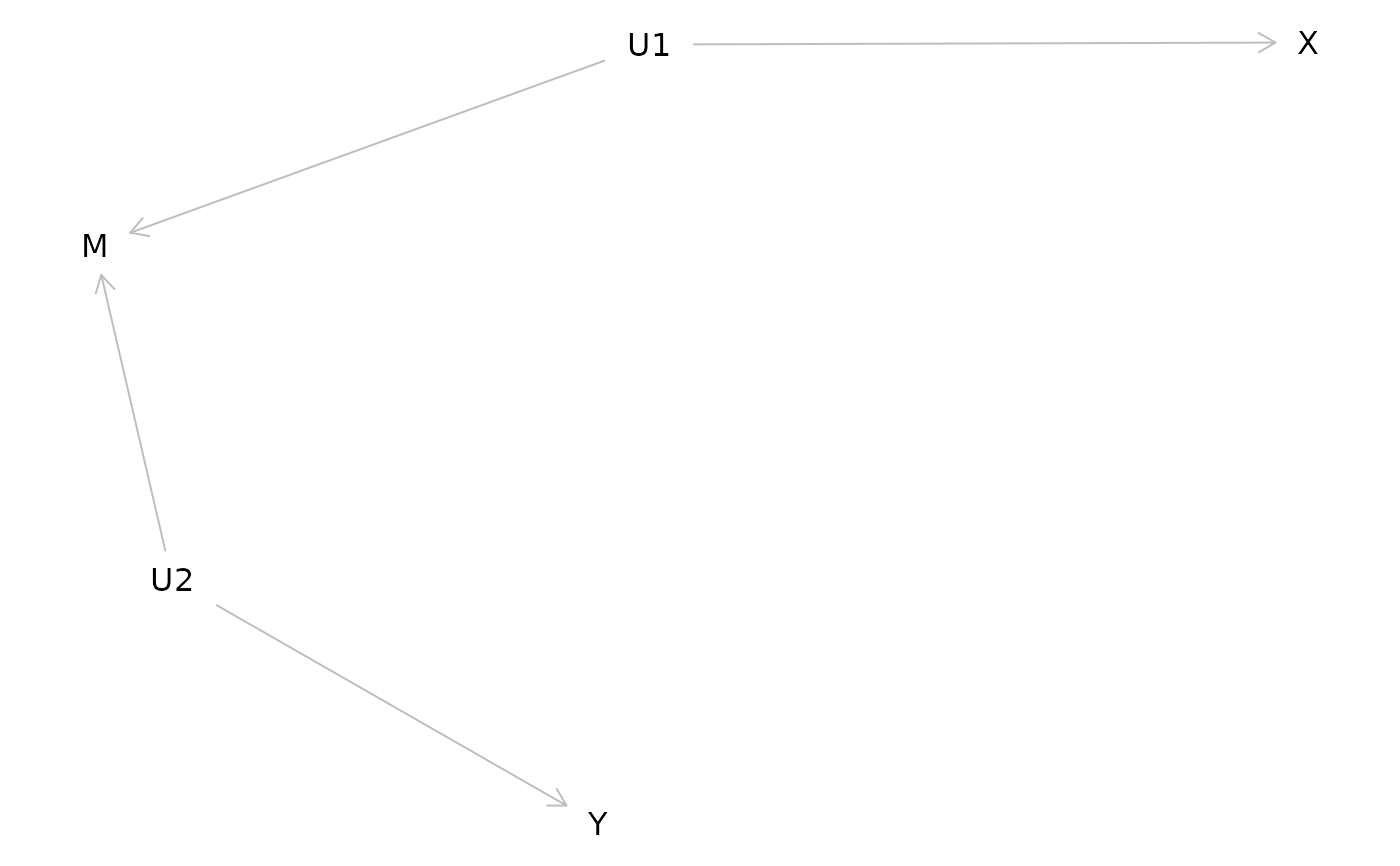
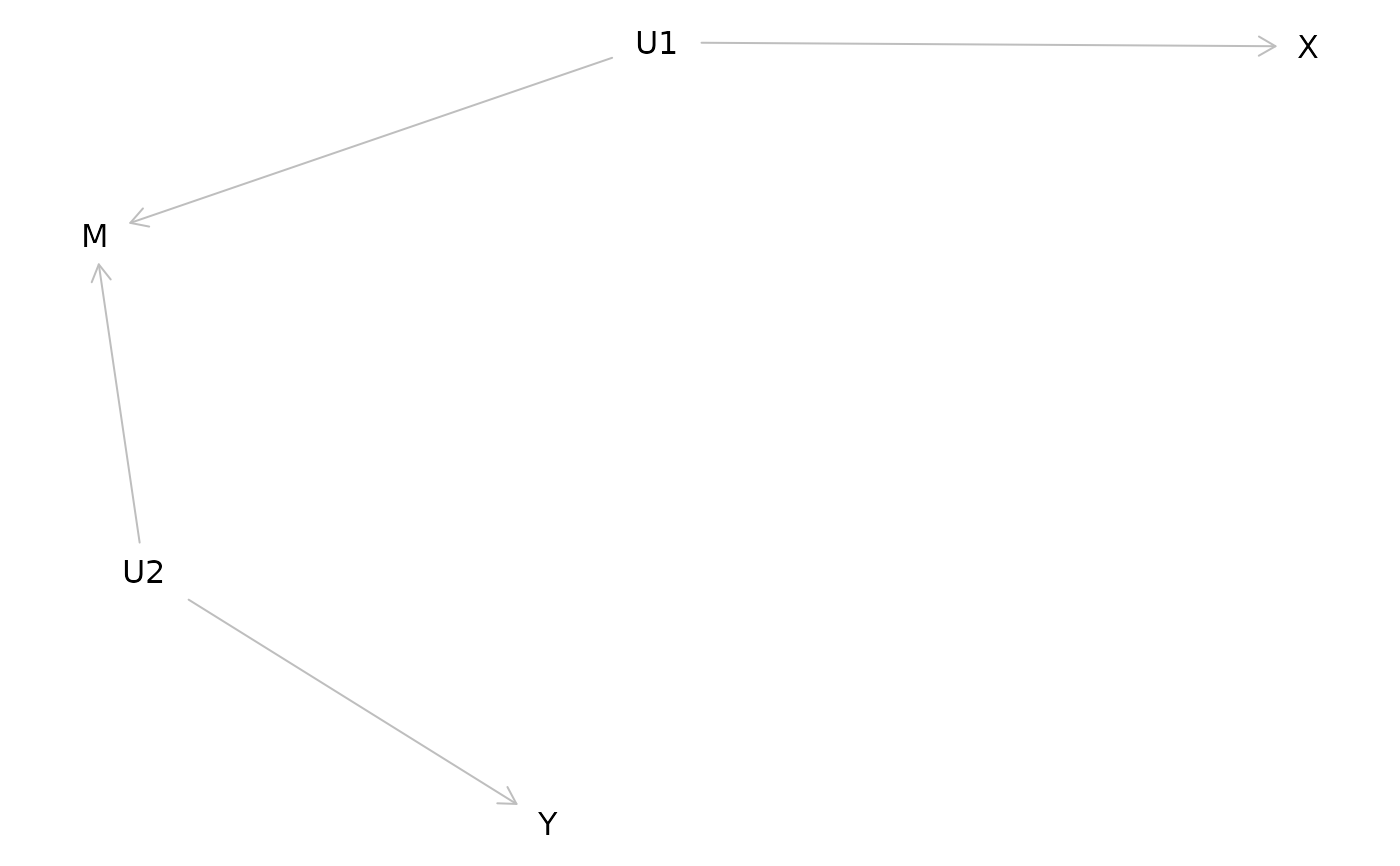
Deploying to gh-pages from @ choxos/dagittyplus@67bf7f78e037b0bebce6f2d291e1263ddfac24f1 🚀

diff --git a/BUILDING.html b/BUILDING.html
@@ -1,0 +1,134 @@
+<!DOCTYPE html>
+<!-- Generated by pkgdown: do not edit by hand --><html lang="en-US"><head><meta http-equiv="Content-Type" content="text/html; charset=UTF-8"><meta charset="utf-8"><meta http-equiv="X-UA-Compatible" content="IE=edge"><meta name="viewport" content="width=device-width, initial-scale=1, shrink-to-fit=no"><title>Building and architecture • dagittyplus</title><script src="deps/jquery-3.6.0/jquery-3.6.0.min.js"></script><meta name="viewport" content="width=device-width, initial-scale=1, shrink-to-fit=no"><link href="deps/bootstrap-5.3.8/bootstrap.min.css" rel="stylesheet"><script src="deps/bootstrap-5.3.8/bootstrap.bundle.min.js"></script><link href="deps/font-awesome-6.5.2/css/all.min.css" rel="stylesheet"><link href="deps/font-awesome-6.5.2/css/v4-shims.min.css" rel="stylesheet"><script src="deps/headroom-0.11.0/headroom.min.js"></script><script src="deps/headroom-0.11.0/jQuery.headroom.min.js"></script><script src="deps/bootstrap-toc-1.0.1/bootstrap-toc.min.js"></script><script src="deps/clipboard.js-2.0.11/clipboard.min.js"></script><script src="deps/search-1.0.0/autocomplete.jquery.min.js"></script><script src="deps/search-1.0.0/fuse.min.js"></script><script src="deps/search-1.0.0/mark.min.js"></script><!-- pkgdown --><script src="pkgdown.js"></script><meta property="og:title" content="Building and architecture"></head><body>
+    <a href="#main" class="visually-hidden-focusable">Skip to contents</a>
+
+
+    <nav class="navbar navbar-expand-lg fixed-top bg-light" data-bs-theme="light" aria-label="Site navigation"><div class="container">
+
+    <a class="navbar-brand me-2" href="index.html">dagittyplus</a>
+
+    <small class="nav-text text-muted me-auto" data-bs-toggle="tooltip" data-bs-placement="bottom" title="">0.4.0</small>
+
+
+    <button class="navbar-toggler" type="button" data-bs-toggle="collapse" data-bs-target="#navbar" aria-controls="navbar" aria-expanded="false" aria-label="Toggle navigation">
+      <span class="navbar-toggler-icon"></span>
+    </button>
+
+    <div id="navbar" class="collapse navbar-collapse ms-3">
+      <ul class="navbar-nav me-auto"><li class="nav-item"><a class="nav-link" href="reference/index.html">Reference</a></li>
+<li class="nav-item dropdown">
+  <button class="nav-link dropdown-toggle" type="button" id="dropdown-articles" data-bs-toggle="dropdown" aria-expanded="false" aria-haspopup="true">Articles</button>
+  <ul class="dropdown-menu" aria-labelledby="dropdown-articles"><li><a class="dropdown-item" href="articles/dagitty4semusers.html">A SEM user's guide to dagitty for R</a></li>
+  </ul></li>
+<li class="nav-item"><a class="nav-link" href="news/index.html">Changelog</a></li>
+      </ul><ul class="navbar-nav"><li class="nav-item"><a class="nav-link" href="https://choxos.github.io/dagittyplus/app/">Web app</a></li>
+<li class="nav-item"><a class="external-link nav-link" href="https://github.com/choxos/dagittyplus/" aria-label="GitHub"><span class="fa fab fa-github fa-lg"></span></a></li>
+      </ul></div>
+
+
+  </div>
+</nav><div class="container template-title-body">
+<div class="row">
+  <main id="main" class="col-md-9"><div class="page-header">
+
+      <h1>Building and architecture</h1>
+      <small class="dont-index">Source: <a href="https://github.com/choxos/dagittyplus/blob/master/BUILDING.md" class="external-link"><code>BUILDING.md</code></a></small>
+    </div>
+
+<div id="building-and-architecture" class="section level1">
+
+<p><code>dagittyplus</code> is a polyglot repository. One JavaScript causal-analysis engine drives three interfaces, so results stay identical across all of them.</p>
+<div class="section level2">
+<h2 id="repository-layout">Repository layout<a class="anchor" aria-label="anchor" href="#repository-layout"></a></h2>
+<table class="table"><colgroup><col width="33%"><col width="33%"><col width="33%"></colgroup><thead><tr><th>Path</th>
+<th>Role</th>
+<th>Branch</th>
+</tr></thead><tbody><tr><td>
+<code>R/</code>, <code>man/</code>, <code>inst/</code>, <code>tests/</code>, <code>vignettes/</code>, <code>DESCRIPTION</code>
+</td>
+<td>The R package, at the repository root</td>
+<td><code>master</code></td>
+</tr><tr><td><code>inst/js/</code></td>
+<td>The prebuilt JavaScript engine the R package runs through V8</td>
+<td><code>master</code></td>
+</tr><tr><td><code>jslib/</code></td>
+<td>Readable upstream source for the engine (namespace-style <code>graph/*.js</code>)</td>
+<td><code>master</code></td>
+</tr><tr><td>
+<code>gui/</code>, <code>website/</code>
+</td>
+<td>Legacy static browser GUI and the dagitty.net content</td>
+<td>
+<code>master</code> (see Phase 7)</td>
+</tr><tr><td><code>ClaudeDesign/</code></td>
+<td>Design reference for the redesigned web editor</td>
+<td><code>master</code></td>
+</tr><tr><td><code>test/</code></td>
+<td>The engine’s QUnit test suite</td>
+<td><code>master</code></td>
+</tr><tr><td>React/TypeScript web app</td>
+<td>The redesigned browser editor, deployed to GitHub Pages <code>/app/</code>
+</td>
+<td><code>webapp</code></td>
+</tr></tbody></table></div>
+<div class="section level2">
+<h2 id="the-engine-single-source-of-truth">The engine (single source of truth)<a class="anchor" aria-label="anchor" href="#the-engine-single-source-of-truth"></a></h2>
+<p><code>inst/js/dagitty-alg.js</code> is a <strong>prebuilt, minified webpack bundle</strong> that exposes a single global object, <code>DAGitty</code>, with these namespaces:</p>
+<pre><code>DAGitty.Graph            DAGitty.GraphParser      DAGitty.GraphAnalyzer
+DAGitty.GraphTransformer DAGitty.GraphSerializer  DAGitty.GraphLayouter
+DAGitty.GraphGenerator   DAGitty.MPoly</code></pre>
+<p>It is loaded the same way everywhere a JavaScript runtime is available:</p>
+<ul><li>
+<strong>R package</strong>: <code>R/internal.R</code> sources it into a <code><a href="https://jeroen.r-universe.dev/V8/reference/V8.html" class="external-link">V8::new_context()</a></code> and calls <code>DAGitty.GraphAnalyzer.*</code>, <code>DAGitty.GraphParser.parseGuess</code>, and so on. <code>inst/js/RUtil.js</code> (the <code>DagittyR</code> helper, R only) reshapes results into R lists, and <code>inst/js/example-dags.js</code> provides the built-in example models.</li>
+<li>
+<strong>Web app</strong> (<code>webapp</code> branch): the same <code>dagitty-alg.js</code> is vendored and loaded as a classic <code>&lt;script&gt;</code>, so <code>window.DAGitty</code> is available to a typed TypeScript wrapper. Because the web app and the R package load the <em>identical</em> file, their analyses agree by construction; there is no second implementation to keep in sync.</li>
+</ul><p>A quick way to confirm the bundle is self-contained (this is what both V8 and the browser do):</p>
+<div class="sourceCode" id="cb2"><pre class="sourceCode js"><code class="sourceCode javascript"><span id="cb2-1"><a href="#cb2-1" tabindex="-1"></a><span class="kw">const</span> fs <span class="op">=</span> <span class="pp">require</span>(<span class="st">"fs"</span>)<span class="op">,</span> vm <span class="op">=</span> <span class="pp">require</span>(<span class="st">"vm"</span>)<span class="op">;</span></span>
+<span id="cb2-2"><a href="#cb2-2" tabindex="-1"></a><span class="kw">const</span> ctx <span class="op">=</span> {}<span class="op">;</span></span>
+<span id="cb2-3"><a href="#cb2-3" tabindex="-1"></a>vm<span class="op">.</span><span class="fu">createContext</span>(ctx)<span class="op">;</span></span>
+<span id="cb2-4"><a href="#cb2-4" tabindex="-1"></a>vm<span class="op">.</span><span class="fu">runInContext</span>(fs<span class="op">.</span><span class="fu">readFileSync</span>(<span class="st">"inst/js/dagitty-alg.js"</span><span class="op">,</span> <span class="st">"utf8"</span>)<span class="op">,</span> ctx)<span class="op">;</span></span>
+<span id="cb2-5"><a href="#cb2-5" tabindex="-1"></a><span class="kw">const</span> g <span class="op">=</span> ctx<span class="op">.</span><span class="at">DAGitty</span><span class="op">.</span><span class="at">GraphParser</span><span class="op">.</span><span class="fu">parseGuess</span>(<span class="st">"dag { x [exposure] y [outcome] z -&gt; x z -&gt; y x -&gt; y }"</span>)<span class="op">;</span></span>
+<span id="cb2-6"><a href="#cb2-6" tabindex="-1"></a>ctx<span class="op">.</span><span class="at">DAGitty</span><span class="op">.</span><span class="at">GraphAnalyzer</span><span class="op">.</span><span class="fu">listMsasTotalEffect</span>(g)<span class="op">;</span> <span class="co">// [[z]]</span></span></code></pre></div>
+</div>
+<div class="section level2">
+<h2 id="rebuilding-the-engine">Rebuilding the engine<a class="anchor" aria-label="anchor" href="#rebuilding-the-engine"></a></h2>
+<p>The webpack configuration that produces <code>inst/js/dagitty-alg.js</code> lives upstream and is not vendored in this repository; only the built bundle is committed. To refresh the engine, drop in a new upstream build of <code>dagitty-alg.js</code> and copy the same file into the <code>webapp</code> branch’s vendored location.</p>
+<p><code>jslib/</code> holds the readable source the bundle is built from. <code>jslib/Makefile</code> is the <strong>legacy</strong> pre-webpack build that simply concatenates the <code>graph/*.js</code> files; it predates the <code>DAGitty</code> namespace and is retained for reference only. It is not used to produce the shipped bundle.</p>
+</div>
+<div class="section level2">
+<h2 id="building-and-testing-each-interface">Building and testing each interface<a class="anchor" aria-label="anchor" href="#building-and-testing-each-interface"></a></h2>
+<p><strong>R package</strong></p>
+<div class="sourceCode" id="cb3"><pre class="sourceCode sh"><code class="sourceCode bash"><span id="cb3-1"><a href="#cb3-1" tabindex="-1"></a><span class="ex">R</span> CMD build .</span>
+<span id="cb3-2"><a href="#cb3-2" tabindex="-1"></a><span class="ex">R</span> CMD check <span class="at">--as-cran</span> dagittyplus_<span class="pp">*</span>.tar.gz</span>
+<span id="cb3-3"><a href="#cb3-3" tabindex="-1"></a><span class="ex">Rscript</span> <span class="at">-e</span> <span class="st">'devtools::test()'</span></span></code></pre></div>
+<p><strong>Engine (QUnit)</strong></p>
+<div class="sourceCode" id="cb4"><pre class="sourceCode sh"><code class="sourceCode bash"><span id="cb4-1"><a href="#cb4-1" tabindex="-1"></a><span class="bu">cd</span> test <span class="kw">&amp;&amp;</span> <span class="ex">npm</span> install <span class="kw">&amp;&amp;</span> <span class="ex">npm</span> test</span></code></pre></div>
+<p><strong>Web app</strong> (on the <code>webapp</code> branch)</p>
+<div class="sourceCode" id="cb5"><pre class="sourceCode sh"><code class="sourceCode bash"><span id="cb5-1"><a href="#cb5-1" tabindex="-1"></a><span class="ex">npm</span> install</span>
+<span id="cb5-2"><a href="#cb5-2" tabindex="-1"></a><span class="ex">npm</span> run dev        <span class="co"># local dev server</span></span>
+<span id="cb5-3"><a href="#cb5-3" tabindex="-1"></a><span class="ex">npm</span> run typecheck</span>
+<span id="cb5-4"><a href="#cb5-4" tabindex="-1"></a><span class="ex">npm</span> test           <span class="co"># engine-parity smoke test</span></span>
+<span id="cb5-5"><a href="#cb5-5" tabindex="-1"></a><span class="ex">npm</span> run build      <span class="co"># production bundle for GitHub Pages /app/</span></span></code></pre></div>
+</div>
+</div>
+
+  </main><aside class="col-md-3"><nav id="toc" aria-label="Table of contents"><h2>On this page</h2>
+    </nav></aside></div>
+
+
+    <footer><div class="pkgdown-footer-left">
+  <p>Developed by <a href="https://github.com/choxos" class="external-link">Ahmad Sofi-Mahmudi</a>, Johannes Textor, Benito van der Zander, Ankur Ankan.</p>
+</div>
+
+<div class="pkgdown-footer-right">
+  <p>Site built with <a href="https://pkgdown.r-lib.org/" class="external-link">pkgdown</a> 2.2.0.</p>
+</div>
+
+    </footer></div>
+
+
+
+
+
+  </body></html>
+

diff --git a/BUILDING.md b/BUILDING.md
@@ -1,0 +1,92 @@
+# Building and architecture
+
+`dagittyplus` is a polyglot repository. One JavaScript causal-analysis
+engine drives three interfaces, so results stay identical across all of
+them.
+
+## Repository layout
+
+| Path | Role | Branch |
+|----|----|----|
+| `R/`, `man/`, `inst/`, `tests/`, `vignettes/`, `DESCRIPTION` | The R package, at the repository root | `master` |
+| `inst/js/` | The prebuilt JavaScript engine the R package runs through V8 | `master` |
+| `jslib/` | Readable upstream source for the engine (namespace-style `graph/*.js`) | `master` |
+| `gui/`, `website/` | Legacy static browser GUI and the dagitty.net content | `master` (see Phase 7) |
+| `ClaudeDesign/` | Design reference for the redesigned web editor | `master` |
+| `test/` | The engine’s QUnit test suite | `master` |
+| React/TypeScript web app | The redesigned browser editor, deployed to GitHub Pages `/app/` | `webapp` |
+
+## The engine (single source of truth)
+
+`inst/js/dagitty-alg.js` is a **prebuilt, minified webpack bundle** that
+exposes a single global object, `DAGitty`, with these namespaces:
+
+    DAGitty.Graph            DAGitty.GraphParser      DAGitty.GraphAnalyzer
+    DAGitty.GraphTransformer DAGitty.GraphSerializer  DAGitty.GraphLayouter
+    DAGitty.GraphGenerator   DAGitty.MPoly
+
+It is loaded the same way everywhere a JavaScript runtime is available:
+
+- **R package**: `R/internal.R` sources it into a
+  [`V8::new_context()`](https://jeroen.r-universe.dev/V8/reference/V8.html)
+  and calls `DAGitty.GraphAnalyzer.*`, `DAGitty.GraphParser.parseGuess`,
+  and so on. `inst/js/RUtil.js` (the `DagittyR` helper, R only) reshapes
+  results into R lists, and `inst/js/example-dags.js` provides the
+  built-in example models.
+- **Web app** (`webapp` branch): the same `dagitty-alg.js` is vendored
+  and loaded as a classic `<script>`, so `window.DAGitty` is available
+  to a typed TypeScript wrapper. Because the web app and the R package
+  load the *identical* file, their analyses agree by construction; there
+  is no second implementation to keep in sync.
+
+A quick way to confirm the bundle is self-contained (this is what both
+V8 and the browser do):
+
+``` js
+const fs = require("fs"), vm = require("vm");
+const ctx = {};
+vm.createContext(ctx);
+vm.runInContext(fs.readFileSync("inst/js/dagitty-alg.js", "utf8"), ctx);
+const g = ctx.DAGitty.GraphParser.parseGuess("dag { x [exposure] y [outcome] z -> x z -> y x -> y }");
+ctx.DAGitty.GraphAnalyzer.listMsasTotalEffect(g); // [[z]]
+```
+
+## Rebuilding the engine
+
+The webpack configuration that produces `inst/js/dagitty-alg.js` lives
+upstream and is not vendored in this repository; only the built bundle
+is committed. To refresh the engine, drop in a new upstream build of
+`dagitty-alg.js` and copy the same file into the `webapp` branch’s
+vendored location.
+
+`jslib/` holds the readable source the bundle is built from.
+`jslib/Makefile` is the **legacy** pre-webpack build that simply
+concatenates the `graph/*.js` files; it predates the `DAGitty` namespace
+and is retained for reference only. It is not used to produce the
+shipped bundle.
+
+## Building and testing each interface
+
+**R package**
+
+``` sh
+R CMD build .
+R CMD check --as-cran dagittyplus_*.tar.gz
+Rscript -e 'devtools::test()'
+```
+
+**Engine (QUnit)**
+
+``` sh
+cd test && npm install && npm test
+```
+
+**Web app** (on the `webapp` branch)
+
+``` sh
+npm install
+npm run dev        # local dev server
+npm run typecheck
+npm test           # engine-parity smoke test
+npm run build      # production bundle for GitHub Pages /app/
+```